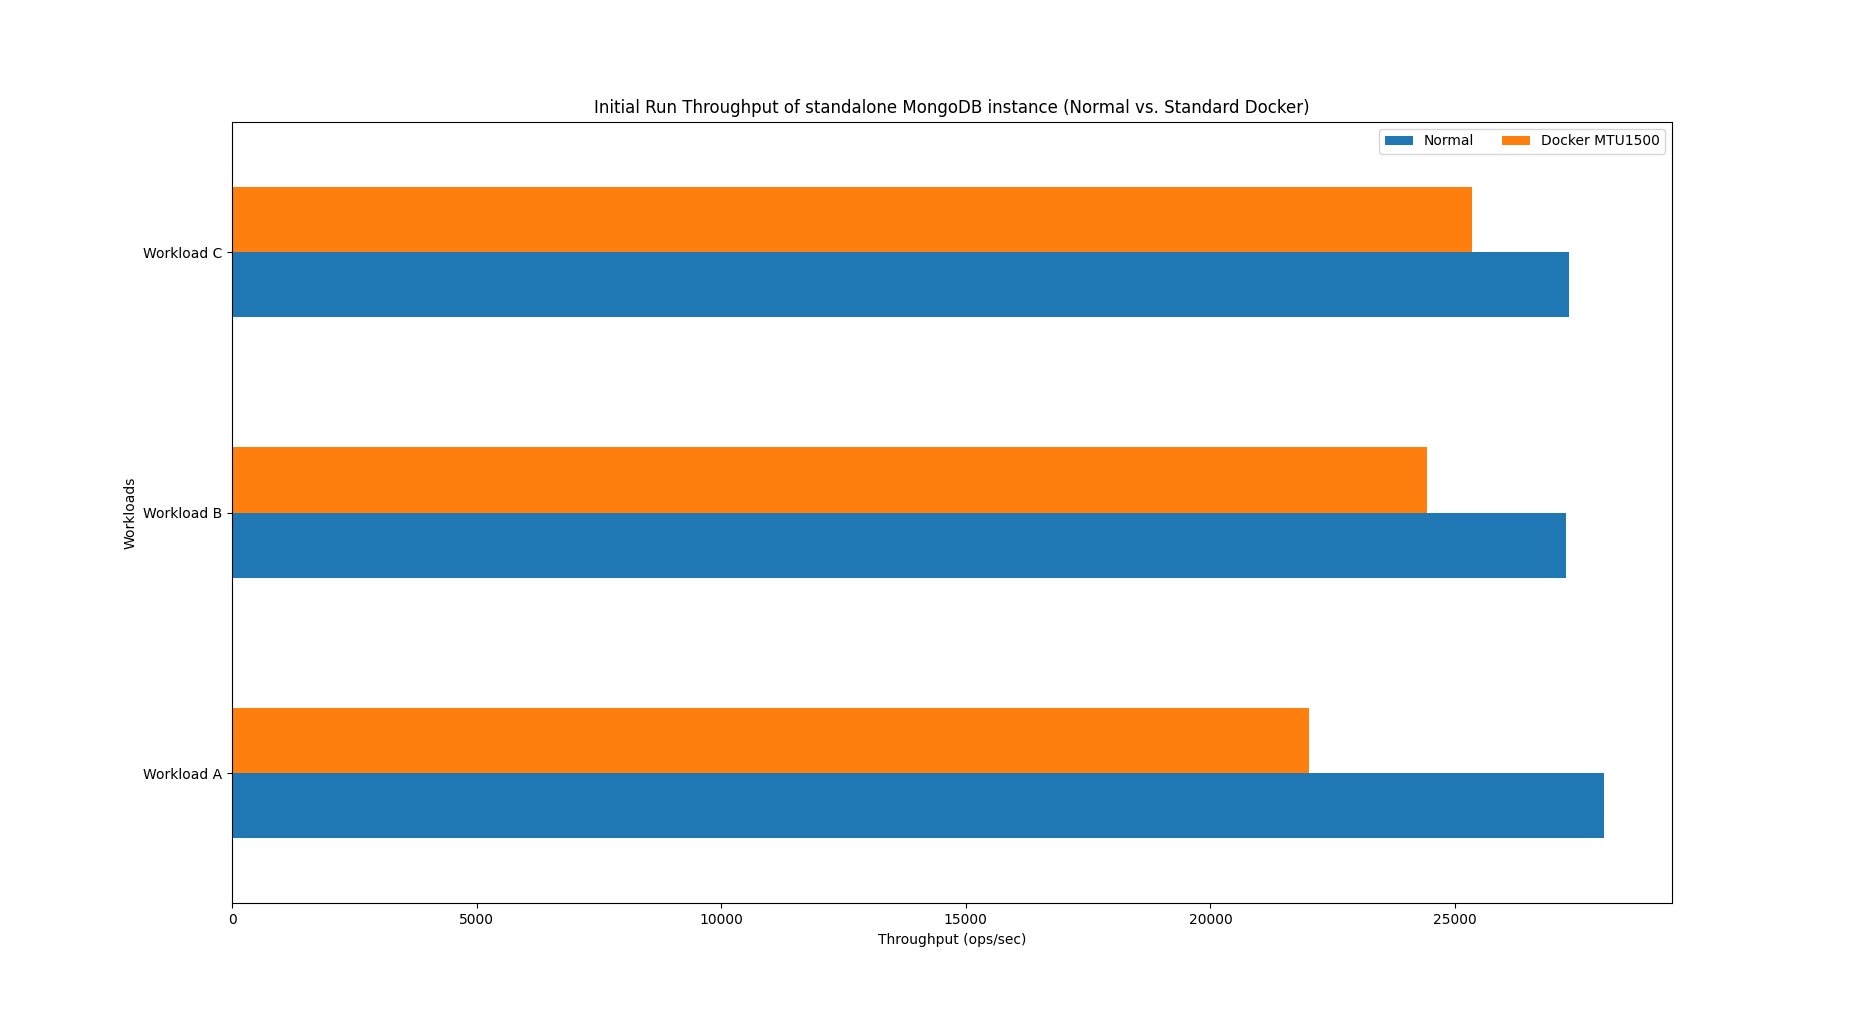
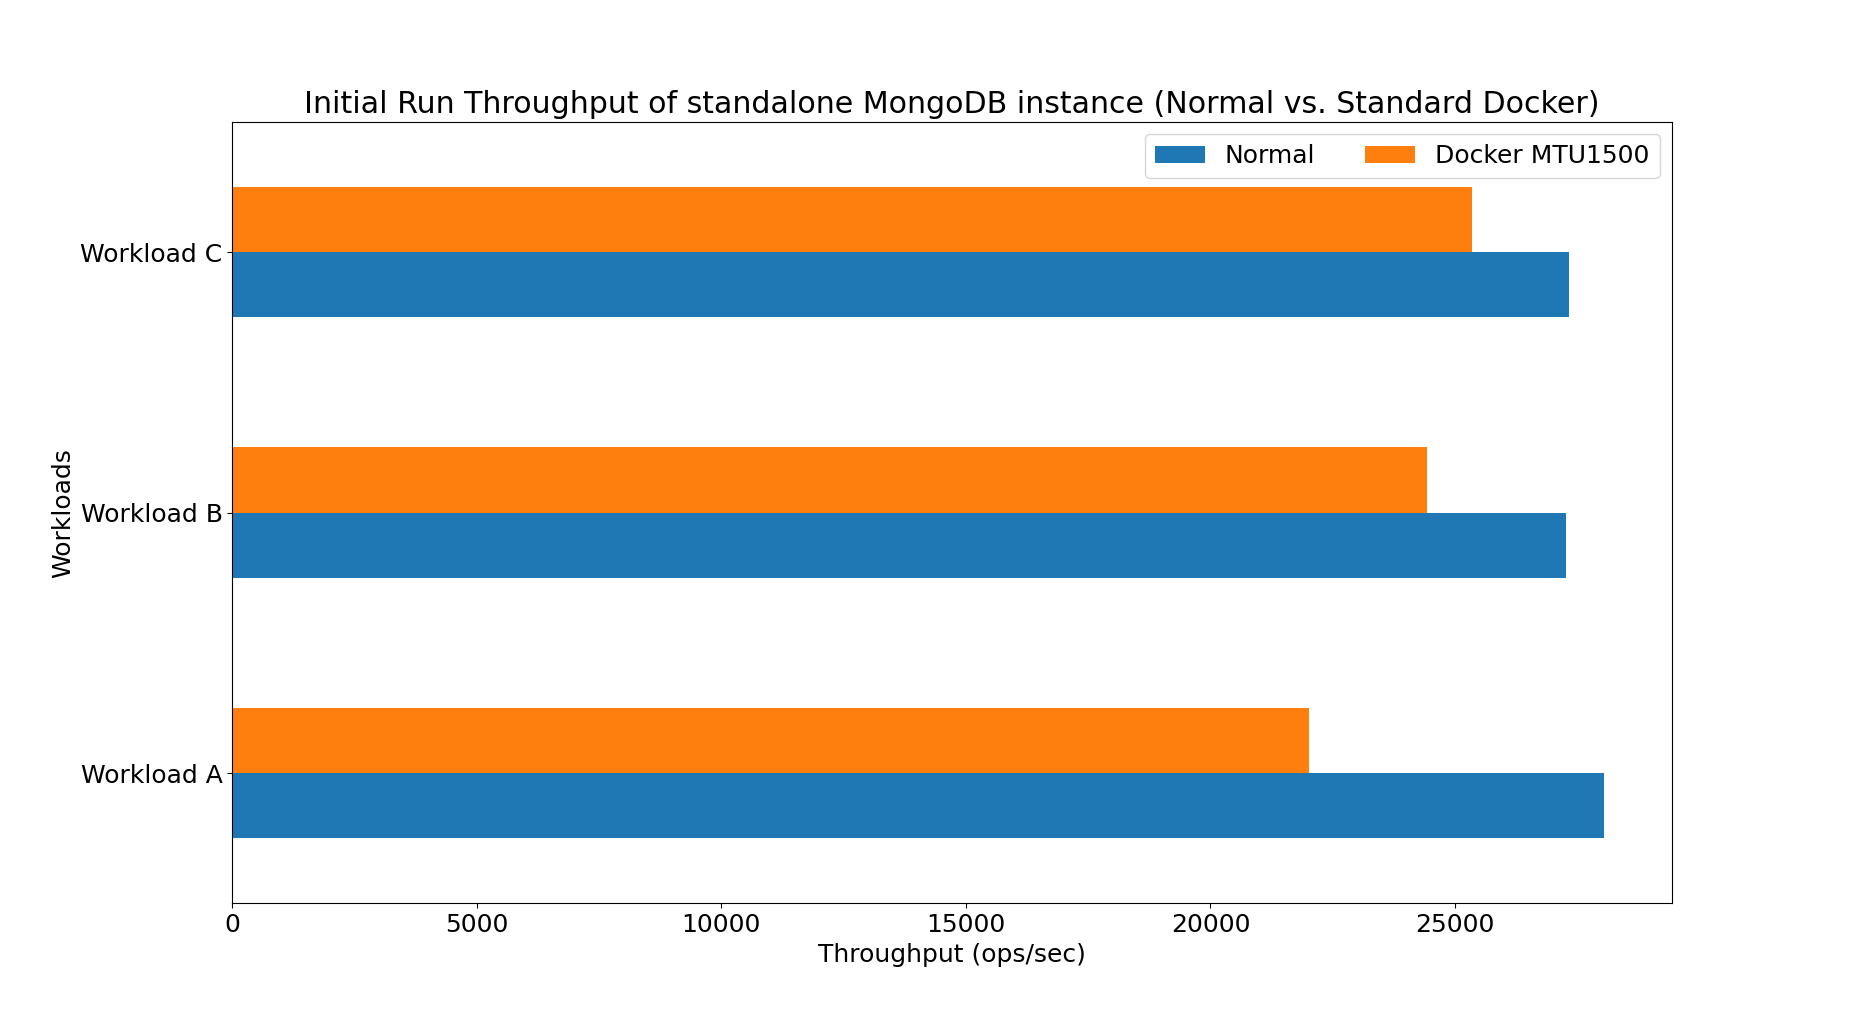
update

diff --git a/plot/ycsb_standalone_res_df.py b/plot/ycsb_standalone_res_df.py
@@ -1,6 +1,8 @@
 import matplotlib.pyplot as plt
 import pandas as pd
 
+plt.rcParams.update({'font.size': 16})
+
 
 def iperf():
     dfPerf = pd.DataFrame([
@@ -76,5 +78,7 @@ def plotRun():
     plt.show()
 
 
-plotLoad()
-plotRun()
+# plotLoad()
+# plotRun()
+
+iperf()

diff --git a/plot/sharded_c.py b/plot/sharded_c.py
@@ -2,6 +2,8 @@ from cProfile import label
 import matplotlib.pyplot as plt
 import numpy as np
 
+plt.rcParams.update({'font.size': 16})
+
 
 def wc():
     t = np.arange(10, 358, 10, dtype=int)
@@ -68,4 +70,6 @@ def wbui():
     pass
 
 
+wc()
+wbu()
 wbi()

diff --git a/plot/psa_res_ycsb_df.py b/plot/psa_res_ycsb_df.py
@@ -1,6 +1,7 @@
 import matplotlib.pyplot as plt
 import pandas as pd
 
+plt.rcParams.update({'font.size': 16})
 
 def loadPSA():
 
